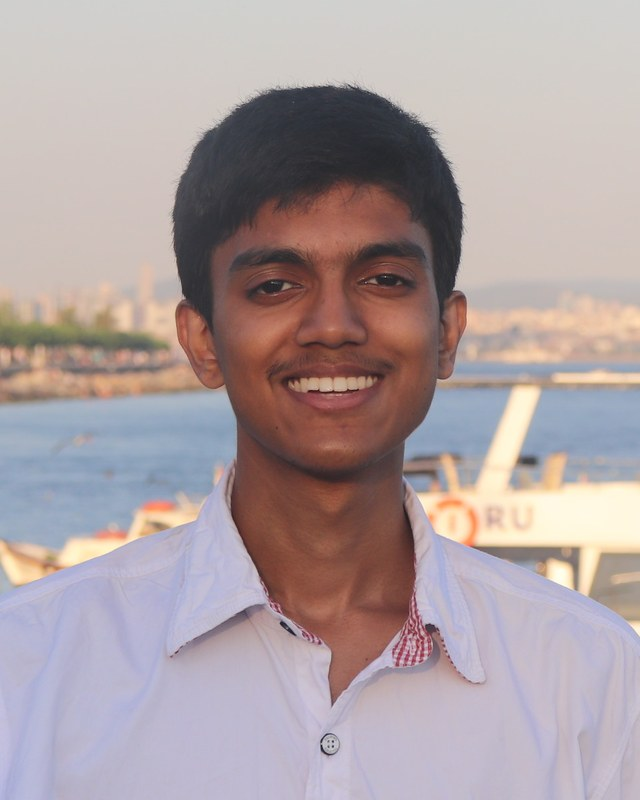
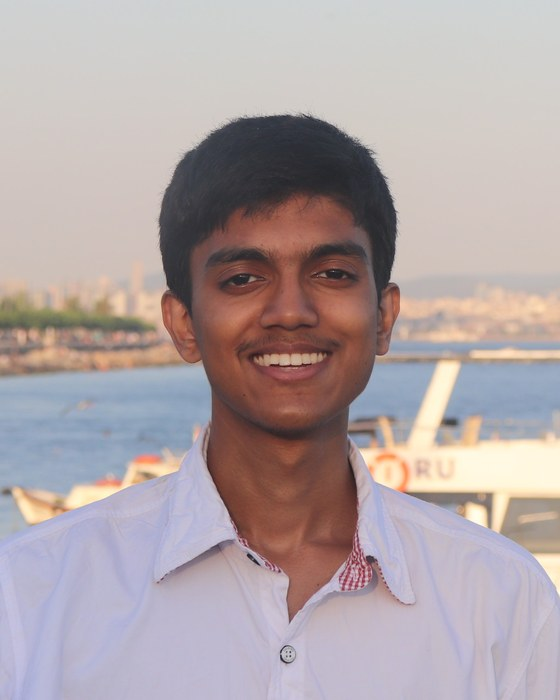
Add files via upload

Changed region(s): [[0.0, 0.09, 1.0, 0.96], [0.9107, 0.96, 0.9411, 0.99]]

diff --git a/assets/css/style.css b/assets/css/style.css
@@ -56,7 +56,7 @@ a:focus-visible, button:focus-visible {
 
 /* ---------- hero ---------- */
 .hero {
-  display: grid; grid-template-columns: 1fr 15rem; gap: 2.5rem;
+  display: grid; grid-template-columns: 1fr 11.5rem; gap: 2.5rem;
   align-items: start; padding: 3.5rem 0 2.5rem;
 }
 .hero h1 {
@@ -67,7 +67,7 @@ a:focus-visible, button:focus-visible {
 .hero .role { font-size: 1.15rem; color: var(--muted); margin: 0 0 1.5rem; }
 .hero .bio p { margin: 0 0 1rem; max-width: 40rem; }
 .hero .portrait {
-  width: 100%; aspect-ratio: 4 / 5; object-fit: cover;
+  width: 100%; height: auto; aspect-ratio: 4 / 5; object-fit: cover;
   border-radius: 4px; display: block; background: var(--rule);
 }
 .links { display: flex; flex-wrap: wrap; gap: 0.35rem 1.25rem; margin: 1.5rem 0 0; padding: 0; list-style: none; }
@@ -156,7 +156,7 @@ footer { margin-top: 3rem; padding: 1.5rem 0 2.5rem; border-top: 1px solid var(-
 /* ---------- small screens ---------- */
 @media (max-width: 44rem) {
   .hero { grid-template-columns: 1fr; padding-top: 2rem; }
-  .hero .portrait { max-width: 13rem; order: -1; }
+  .hero .portrait { max-width: 9.5rem; order: -1; }
   .pub { grid-template-columns: 1fr; }
   .news li { grid-template-columns: 4.5rem 1fr; gap: 0.75rem; }
   .entry { grid-template-columns: 1fr; }

diff --git a/index.html b/index.html
@@ -50,7 +50,7 @@
         <li><a href="cv/CV_Varun.pdf">CV (PDF)</a></li>
       </ul>
     </div>
-    <img class="portrait" src="assets/images/bio.jpg" alt="Portrait of Varun Manjunath" width="640" height="800">
+    <img class="portrait" src="assets/images/bio.jpg" alt="Portrait of Varun Manjunath" width="560" height="700">
   </div>
 
   <!-- ===================== NEWS ===================== -->
